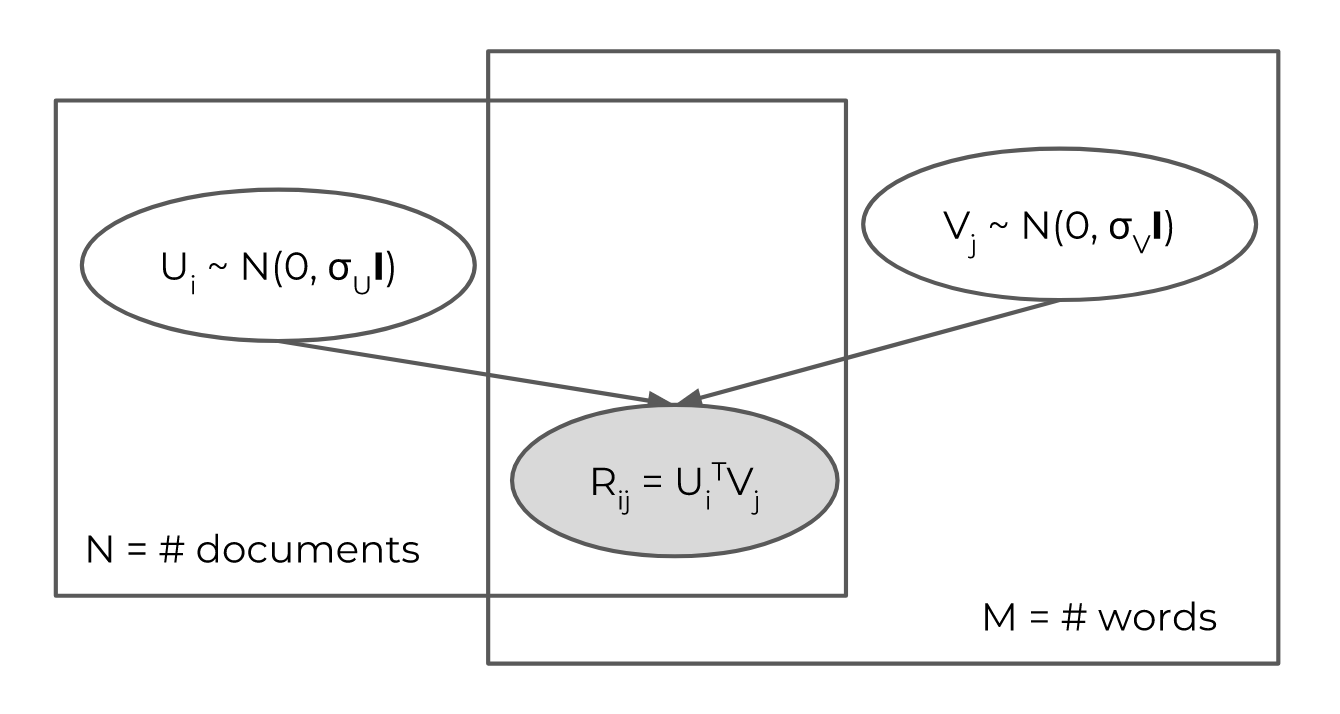
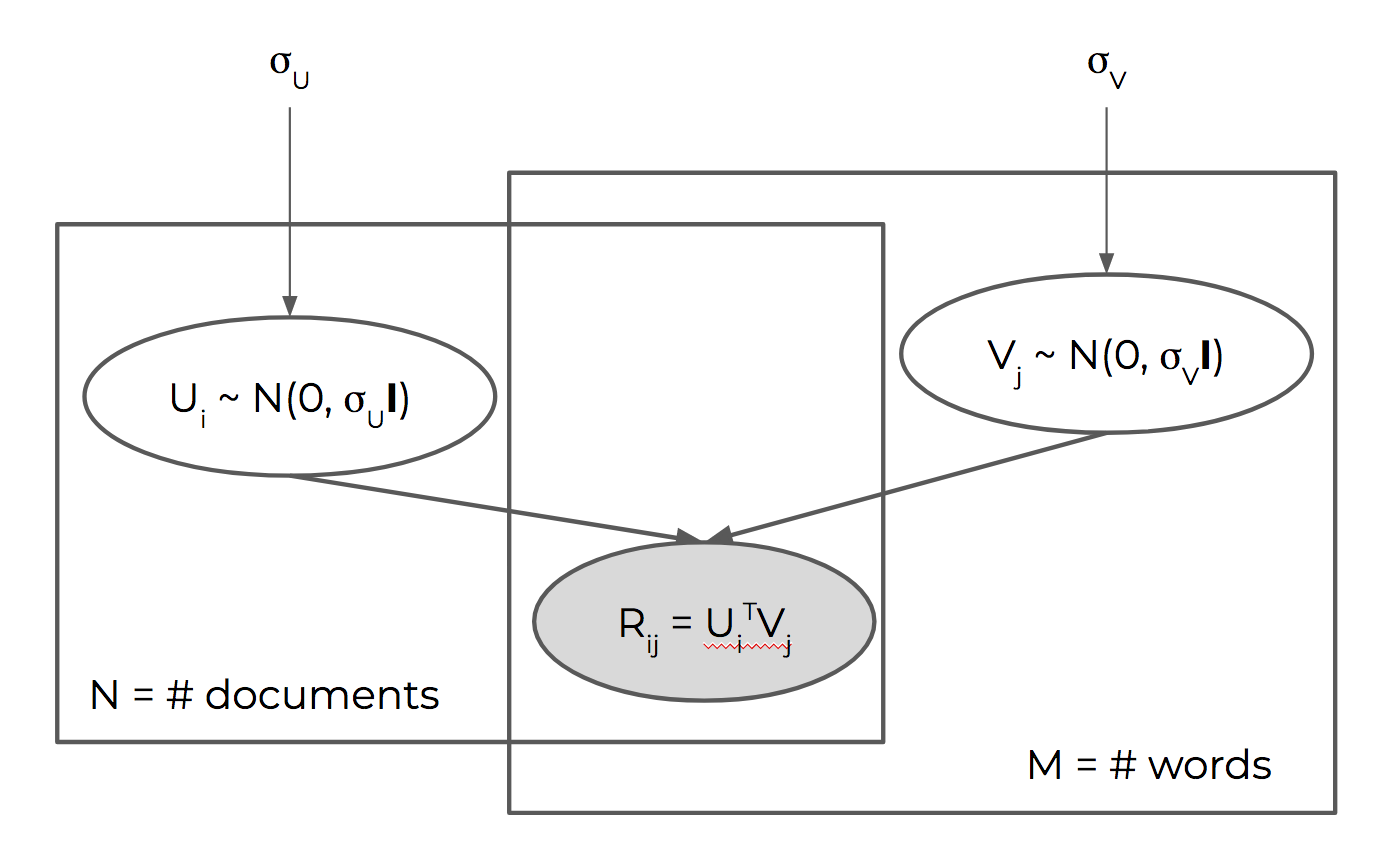
ENH: new post on matrix factorizations

diff --git a/_posts/2018-10-13-matrix-factorization.md b/_posts/2018-10-13-matrix-factorization.md
@@ -1,0 +1,161 @@
+---
+title: Probabilistic and Bayesian Matrix Factorization for Text Clustering
+excerpt: "Natural language processing is in a curious place right now. It's not
+immediately obvious how successful it's been, or how close the field is to
+viable, production-ready techniques (in the same way that, say, [computer vision
+is](https://clarifai.com/models/))."
+tags:
+  - bayesianism
+  - natural language processing
+header:
+  overlay_image: /assets/images/cool-backgrounds/cool-background15.png
+  caption: 'Photo credit: [coolbackgrounds.io](https://coolbackgrounds.io/)'
+mathjax: true
+last_modified_at: 2018-10-13
+---
+
+Natural language processing is in a curious place right now. It's not
+immediately obvious how successful it's been, or how close the field is to
+viable, production-ready techniques (in the same way that, say, [computer vision
+is](https://clarifai.com/models/)). For example, [Sebastian
+Ruder](https://ruder.io) predicted that the field is [close to a watershed
+moment](https://thegradient.pub/nlp-imagenet/), and that within a year we'll
+have downloadable language models (that was six months ago, and, uh...).
+However, [Ana Marasović](https://amarasovic.github.io/) points out that there is
+[a tremendous amount of work demonstrating
+that](https://thegradient.pub/frontiers-of-generalization-in-natural-language-processing/):
+
+> "despite good performance on benchmark datasets, modern NLP techniques are
+> nowhere near the skill of humans at language understanding and reasoning when
+> making sense of novel natural language inputs".
+
+I am confident that I am very bad at making lofty predictions about the future.
+Instead, I'll try to talk about something I know a bit about: simple solutions
+to concrete problems, with some Bayesianism thrown in for good measure
+:grinning:.
+
+This blog post will summarize some literature on probabilistic and Bayesian
+matrix factorization methods, keeping an eye out for applications to one
+specific task in NLP: text clustering. It's exactly what it sounds like, and
+there's been a fair amount of success in applying text clustering to many other
+NLP tasks (e.g. check out these examples in [document
+organization](https://www-users.cs.umn.edu/~hanxx023/dmclass/scatter.pdf),
+[corpus](http://jmlr.csail.mit.edu/papers/volume3/bekkerman03a/bekkerman03a.pdf)
+[summarization](https://www.cs.technion.ac.il/~rani/el-yaniv-papers/BekkermanETW01.pdf)
+and [document
+classification](http://www.kamalnigam.com/papers/emcat-aaai98.pdf)).
+
+A natural question is: why is matrix factorization[^1] a good technique to use
+for text clustering? Because it is both a clustering and a feature engineering
+technique: it gives us a better view of the latent space! Matrix factorization
+lives an interesting double life: clustering technique by day, feature
+transformation technique by night. [Aggarwal and
+Zhai](http://charuaggarwal.net/text-cluster.pdf) suggest that chaining matrix
+factorization with some other clustering technique (e.g. agglomerative
+clustering or topic modelling) is common practice and is called _concept
+decomposition_, but I haven't seen any other source back this up.
+
+What follows is a literature review of three matrix factorization techniques for
+machine learning: one classical, one probabilistic and one Bayesian. Dive in!
+
+## Non-Negative Matrix Factorization (NMF)
+
+NMF is a [very
+well-known](https://en.wikipedia.org/wiki/Non-negative_matrix_factorization)
+[matrix
+factorization](http://scikit-learn.org/stable/modules/generated/sklearn.decomposition.NMF.html)
+[technique](https://arxiv.org/abs/1401.5226), perhaps most famous for its
+applications in [collaborative filtering and the Netflix
+Prize](http://blog.echen.me/2011/10/24/winning-the-netflix-prize-a-summary/).
+
+Factorize your (entrywise non-negative) $$m \times n$$ matrix $$V$$ as
+$$V = WH$$, where $$W$$ is $$m \times p$$ and $$H$$ is $$p \times n$$. $$p$$
+is the dimensionality of your latent space, and each latent dimension usually
+comes to quantify something with semantic meaning. There are several algorithms
+to compute this factorization, but Lee and Seung's [multiplicative update
+rule](https://dl.acm.org/citation.cfm?id=3008829) (originally published in NIPS
+2000) is most popular.
+
+Fairly simple: enough said, I think.
+
+## Probabilistic Matrix Factorization (PMF)
+
+Originally introduced as a paper at [NIPS
+2007](https://papers.nips.cc/paper/3208-probabilistic-matrix-factorization),
+_probabilistic matrix factorzation_ is essentially the exact same model as NMF,
+but with uncorrelated (a.k.a. "spherical") multivariate Gaussian priors placed
+on the rows and columns of $$U$$ and $$V$$. Expressed as a graphical model, PMF
+would look like this:
+
+<figure>
+    <a href="/assets/images/pmf.png"><img style="float: middle" src="/assets/images/pmf.png"></a>
+</figure>
+
+Note that the priors are placed on the _rows_ of the $$U$$ and $$V$$ matrices.
+
+The authors then (somewhat disappointing) proceed to find the MAP estimate of
+the $$U$$ and $$V$$ matrices. They show that maximizing the posterior is
+equivalent to minimizing the sum-of-squared-errors loss function with two
+quadratic regularization terms:
+
+$$\frac{1}{2} \sum_{i=1}^{N} \sum_{j=1}^{M} {I_{ij} (R_{ij} - U_i^T V_j)^2} +
+\frac{\lambda_U}{2} \sum_{i=1}^{N} |U|_{Fro}^2 +
+\frac{\lambda_V}{2} \sum_{j=1}^{M} |V|_{Fro}^2 $$
+
+where $$I_{ij}$$ is 1 if document $$i$$ contains word $$j$$, and 0 otherwise.
+
+This loss function can be minimized via gradient descent, and implemented in
+your favorite deep learning framework (e.g. Tensorflow or PyTorch).
+
+The problem with this approach is that while the MAP estimate is often a
+reasonable point in low dimensions, it becomes very strange in high dimensions,
+and is usually not informative or special in any way. Read [Ferenc Huszár’s blog
+post](https://www.inference.vc/high-dimensional-gaussian-distributions-are-soap-bubble/)
+for more.
+
+## Bayesian Probabilistic Matrix Factorization (BPMF)
+
+Strictly speaking, PMF is not a Bayesian model. After all, there aren't any
+priors or posteriors, only fixed hyperparameters and a MAP estimate. _Bayesian
+probabilistic matrix factorization_, originally published by [researchers from
+the University of Toronto](https://dl.acm.org/citation.cfm?id=1390267) is a
+fully Bayesian treatment of PMF.
+
+Instead of saying that the rows/columns of U and V are normally distributed with
+zero mean and some precision matrix, we place hyperpriors on the mean vector and
+precision matrices. The specific priors are Wishart priors on the covariance
+matrices (with scale matrix $$W_0$$ and $$\nu_0$$ degrees of freedom), and
+Gaussian priors on the means (with mean $$\mu_0$$ and covariance equal to the
+covariance given by the Wishart prior). Expressed as a graphical model, BPMF
+would look like this:
+
+<figure>
+    <a href="/assets/images/bpmf.png"><img style="float: middle" src="/assets/images/bpmf.png"></a>
+</figure>
+
+Note that, as above, the priors are placed on the _rows_ of the $$U$$ and $$V$$
+matrices, and that $$n$$ is the dimensionality of latent space (i.e. the number
+of latent dimensions in the factorization).
+
+The authors then sample from the posterior distribution of $$U$$ and $$V$$ using
+a Gibbs sampler. Sampling takes several hours: somewhere between 5 to 180,
+depending on how many samples you want. Nevertheless, the authors demonstrate
+that BPMF can achieve more accurate and more robust results on the Netflix data
+set.
+
+I would propose two changes to the original paper:
+
+1. Use an LKJ prior on the covariance matrices instead of a Wishart prior.
+   [According to Michael Betancourt and the PyMC3 docs, this is more numerically
+   stable](https://docs.pymc.io/notebooks/LKJ.html), and will lead to better
+   inference.
+2. Use a more robust sampler such as NUTS (instead of a Gibbs sampler), or even
+   resort to variational inference. The paper makes it clear that BPMF is a
+   computationally painful endeavor, so any speedup to the method would be a
+   great help. It seems to me that for practical real-world applications to
+   collaborative filtering, we would want to use variational inference. Netflix
+   ain't waiting 5 hours for their recommendations.
+
+---
+
+[^1]: which is, by the way, a [severely underappreciated technique in machine learning](http://scikit-learn.org/stable/modules/decomposition.html)
